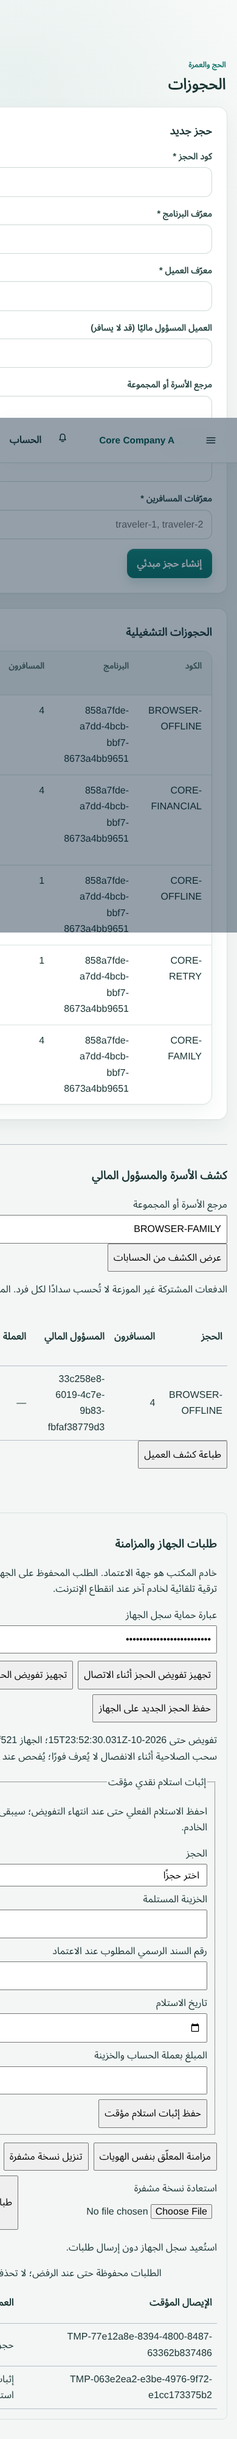
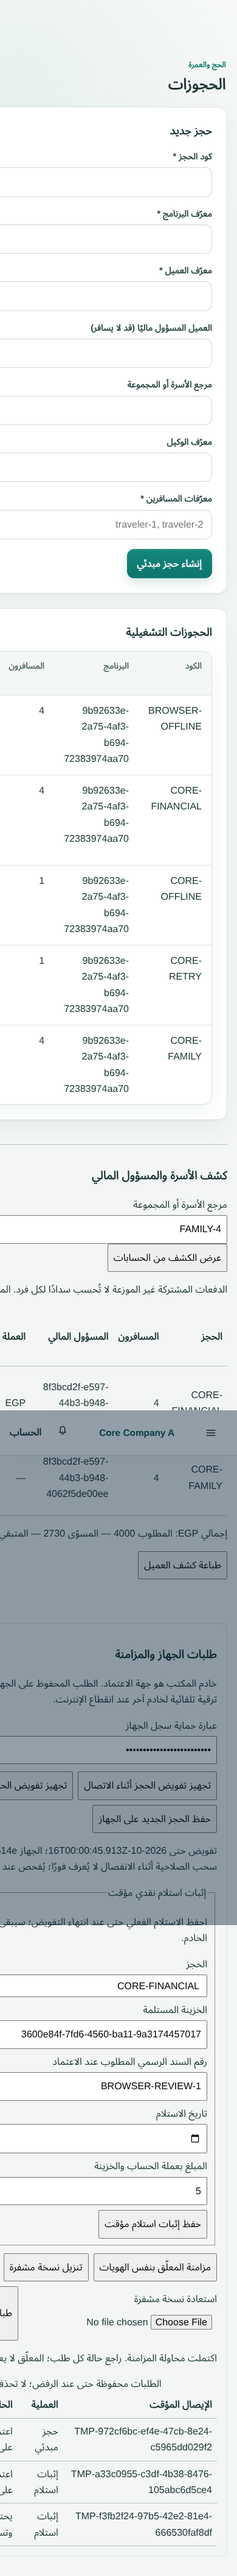
fix: preserve concurrent booking receipt references with row locking

diff --git a/modules/tourism-finance-orchestration/src/infrastructure/prisma-tourism-finance.repository.ts b/modules/tourism-finance-orchestration/src/infrastructure/prisma-tourism-finance.repository.ts
@@ -1,5 +1,5 @@
 import { Prisma, type PrismaClient } from '@prisma/client';
-import { companyId, decimalAmount, sourceReference, type CompanyId, type SourceReference } from '@elhafez/contracts';
+import { companyId, decimalAmount, sourceReference, ContractValidationError, type CompanyId, type SourceReference } from '@elhafez/contracts';
 import type { TourismFinanceRepository } from '../application/orchestration.repository.js';
 import type { BookingReference, FinancialSetup, ProgramHistory, ServiceFinancialSnapshot, StandaloneFinancialReference, Workflow, WorkflowStep } from '../domain/orchestration.js';
 const json = (value: unknown) => value as Prisma.InputJsonValue; const out = <T>(value: Prisma.JsonValue) => value as unknown as T;
@@ -56,7 +56,16 @@ export class PrismaTourismFinanceRepository implements TourismFinanceRepository 
   async saveSetup(value: FinancialSetup) { await this.db.tfoFinancialSetup.upsert({ where: { companyId_category: { companyId: value.companyId, category: value.category } }, create: value, update: { receivableAccountId: value.receivableAccountId, customerAdvanceAccountId: value.customerAdvanceAccountId, revenueAccountId: value.revenueAccountId, costAccountId: value.costAccountId, commissionExpenseAccountId: value.commissionExpenseAccountId, commissionLiabilityAccountId: value.commissionLiabilityAccountId, active: value.active } }); }
   async setup(company: CompanyId, category: string) { const row = await this.db.tfoFinancialSetup.findUnique({ where: { companyId_category: { companyId: company, category } } }); return row ? { id: row.id, companyId: companyId(row.companyId), category: row.category as FinancialSetup['category'], receivableAccountId: row.receivableAccountId, customerAdvanceAccountId: row.customerAdvanceAccountId, revenueAccountId: row.revenueAccountId, costAccountId: row.costAccountId, ...(row.commissionExpenseAccountId ? { commissionExpenseAccountId: row.commissionExpenseAccountId } : {}), ...(row.commissionLiabilityAccountId ? { commissionLiabilityAccountId: row.commissionLiabilityAccountId } : {}), active: row.active } : undefined; }
   async reserveBooking(value: BookingReference) { try { await this.db.tfoBookingReference.create({ data: this.bookingData(value) }); return value; } catch (error) { const old = await this.booking(value.companyId, value.booking); if (old) return old; throw error; } }
-  async saveBooking(value: BookingReference) { await this.db.tfoBookingReference.update({ where: { companyId_bookingType_bookingId: { companyId: value.companyId, bookingType: value.booking.sourceType, bookingId: value.booking.sourceId } }, data: { status: value.status, invoiceId: value.invoiceId, allocations: json(value.allocations), approvalRequestId: value.approvalRequestId, procurementReference: procurementJson(value), commissionClaimId: value.commissionClaimId, commissionClaimIds:json(value.commissionClaimIds??(value.commissionClaimId?[value.commissionClaimId]:[])), depositVoucherIds: json(value.depositVoucherIds) } }); }
+  async saveBooking(value: BookingReference) {
+    const where={companyId_bookingType_bookingId:{companyId:value.companyId,bookingType:value.booking.sourceType,bookingId:value.booking.sourceId}};
+    await this.db.$transaction(async tx=>{
+      await tx.$queryRaw(Prisma.sql`SELECT id FROM tfo_booking_references WHERE company_id=${value.companyId} AND booking_type=${value.booking.sourceType} AND booking_id=${value.booking.sourceId} FOR UPDATE`);
+      const current=await tx.tfoBookingReference.findUniqueOrThrow({where});
+      if(current.status==='CANCELLED'&&value.status!=='CANCELLED')throw new ContractValidationError('booking','cancelled financial identity cannot reopen');
+      const deposits=[...new Set([...out<string[]>(current.depositVoucherIds),...value.depositVoucherIds])];
+      await tx.tfoBookingReference.update({where,data:{status:value.status,invoiceId:value.invoiceId,allocations:json(value.allocations),approvalRequestId:value.approvalRequestId,procurementReference:procurementJson(value),commissionClaimId:value.commissionClaimId,commissionClaimIds:json(value.commissionClaimIds??(value.commissionClaimId?[value.commissionClaimId]:[])),depositVoucherIds:json(deposits)}});
+    });
+  }
   private bookingData(value: BookingReference) { return { id: value.id, companyId: value.companyId, branchId: value.branchId, bookingType: value.booking.sourceType, bookingId: value.booking.sourceId, programType: value.program.sourceType, programId: value.program.sourceId, customerPartyId: value.customerPartyId, confirmationPayloadHash: value.confirmationPayloadHash, status: value.status, invoiceId: value.invoiceId, allocations: json(value.allocations), approvalRequestId: value.approvalRequestId, procurementReference: procurementJson(value), commissionClaimId: value.commissionClaimId, commissionClaimIds:json(value.commissionClaimIds??(value.commissionClaimId?[value.commissionClaimId]:[])), depositVoucherIds: json(value.depositVoucherIds), workflowId: value.workflowId, financialSetup: json(value.financialSetup) }; }
   private mapBooking(row: { id: string; companyId: string; branchId: string | null; bookingType: string; bookingId: string; programType: string; programId: string; customerPartyId: string; confirmationPayloadHash: string; status: string; invoiceId: string | null; allocations: Prisma.JsonValue; approvalRequestId: string | null; procurementReference: Prisma.JsonValue | null; commissionClaimId: string | null; commissionClaimIds?: Prisma.JsonValue | null; depositVoucherIds: Prisma.JsonValue; workflowId: string; financialSetup: Prisma.JsonValue | null }): BookingReference { if (row.financialSetup === null) throw new Error('booking financial setup snapshot is missing'); return { id: row.id, companyId: companyId(row.companyId), ...(row.branchId ? { branchId: row.branchId } : {}), booking: sourceReference(row.bookingType, row.bookingId), program: sourceReference(row.programType, row.programId), customerPartyId: row.customerPartyId, confirmationPayloadHash: row.confirmationPayloadHash, status: row.status as BookingReference['status'], ...(row.invoiceId ? { invoiceId: row.invoiceId } : {}), allocations: out(row.allocations), ...(row.approvalRequestId ? { approvalRequestId: row.approvalRequestId } : {}), ...mappedProcurement(row.procurementReference), ...(row.commissionClaimId ? { commissionClaimId: row.commissionClaimId } : {}), commissionClaimIds:row.commissionClaimIds?out(row.commissionClaimIds):(row.commissionClaimId?[row.commissionClaimId]:[]), depositVoucherIds: out(row.depositVoucherIds), workflowId: row.workflowId, financialSetup: out(row.financialSetup) }; }
   async booking(company: CompanyId, source: SourceReference) { const row = await this.db.tfoBookingReference.findUnique({ where: { companyId_bookingType_bookingId: { companyId: company, bookingType: source.sourceType, bookingId: source.sourceId } } }); return row ? this.mapBooking(row) : undefined; }

diff --git a/apps/api/src/core-workflow-http.integration.ts b/apps/api/src/core-workflow-http.integration.ts
@@ -81,6 +81,13 @@ await test('core workflow actual AppModule and PostgreSQL',async t=>{
    const ecr=app.get(ExpenseCommissionRecognitionApplicationService);for(const claim of claims)await ecr.approveCommission(cid,claim.id,'2026-10-15','CORE-COMMISSION-'+claim.id);
    const deposit={companyId:cid,branchId:tenant.defaultBranchId,commandKey:'core-deposit',booking:sourceReference('HAJJ_UMRAH_BOOKING',financialBooking.id),treasuryId:cash.id,number:'CORE-RECEIPT',postingDate:'2026-10-15',amount:decimalAmount('2500')};await finance.recordBookingDeposit(deposit);await finance.recordBookingDeposit(deposit);
    const statement=await request<{rows:Array<{allocationBasis:string}>;totals:Array<{currency:string;charged:string;paid:string;outstanding:string}>}>('/hajj-umrah/family-statement?reference=FAMILY-4',undefined,headers(tenant),200);assert.deepEqual(statement.totals,[{currency:'EGP',charged:'4000',paid:'2500',outstanding:'1500'}]);assert.ok(statement.rows.every(x=>x.allocationBasis==='SHARED_NOT_DISTRIBUTED'));assert.ok(!JSON.stringify(statement).includes('commission'));
+   const concurrent=[{...deposit,commandKey:'concurrent-cash-a',number:'CONCURRENT-A',amount:decimalAmount('10')},{...deposit,commandKey:'concurrent-cash-b',number:'CONCURRENT-B',amount:decimalAmount('20')}];
+   const outcomes=await Promise.allSettled(concurrent.map(input=>finance.recordBookingDeposit(input)));
+   for(const [index,outcome] of outcomes.entries())if(outcome.status==='rejected')await finance.recordBookingDeposit(concurrent[index]!);
+   const reference=await db.tfoBookingReference.findFirstOrThrow({where:{companyId:cid,bookingId:financialBooking.id}});
+   assert.equal((reference.depositVoucherIds as string[]).length,3,'distinct concurrent receipts must all remain available for cancellation/recovery');
+   const updated=await request<{totals:Array<{outstanding:string}>}>('/hajj-umrah/family-statement?reference=FAMILY-4',undefined,headers(tenant),200);assert.equal(updated.totals[0]?.outstanding,'1470');
+
   });
   if(process.env.CORE_BROWSER_PACKAGE){await t.test('production browser saves encrypted offline request and synchronizes through actual AppModule',async()=>{
    await new Promise<void>((resolve,reject)=>{const child=spawn(process.execPath,['tools/experiments/core-workflow/browser.mjs'],{env:{...process.env,CORE_API_ORIGIN:origin},stdio:['pipe','pipe','pipe']});let output='';child.stdout.on('data',chunk=>output+=String(chunk));child.stderr.on('data',chunk=>output+=String(chunk));child.on('error',reject);child.on('exit',code=>code===0?resolve():reject(Error('browser acceptance failed: '+output.slice(-2000))));child.stdin.end(JSON.stringify({tenant:{...tenant,mustChangePassword:false},programId,customerId,responsibleId,travelerIds,financialTreasuryId}));});

diff --git a/docs/planning/CORE_WORKFLOW_ACCEPTANCE_AR.md b/docs/planning/CORE_WORKFLOW_ACCEPTANCE_AR.md
@@ -6,7 +6,7 @@
 
 - الحجز يفصل العميل المتعاقد عن العميل المسؤول ماليًا، الذي لا يدخل ضمن عدد المسافرين. يمكن ربط مسافرين ذوي ملفات مستقلة دون فرض أن الجميع ملف عميل واحد. `familyReference` يجمع الحجوزات للعرض، ولا ينشئ دفتر ذمم. حقول قديمة بلا مسؤول مستقل تستخدم المتعاقد كما كانت.
 - يمر المسؤول المالي وحده إلى فاتورة TFO/Billing. كشف الأسرة يجمع الفاتورة مرة واحدة وبعملة مستقلة. الحجز متعدد المسافرين يبقى SHARED_NOT_DISTRIBUTED؛ لا يُختلق سداد لكل فرد. رقم «المسوّى» هو الإجمالي ناقص المتبقي ويشمل التسويات، وليس مجموع النقد وحده. مطبوعة العميل إسقاط مستقل يهرب النصوص ولا ينسخ شاشة الإدارة أو العمولة/التكلفة.
-- إنشاء الحجز ذو requestId ثابت يتحمل ضياع الرد وإعادة الإنشاء. المرجع مشتق إلى هوية تقبلها طبقة التدقيق UUID. تسجيل مراجع العميل والمندوب يستعمل إدخالًا ذريًا متجاهلًا للتكرار نفسه، دون إعادة إنشاء العلاقات في سباق upsert. حفظ انتقالات الحجز يستخدم revision ويحتفظ بالتاريخ داخل المعاملة.
+- إنشاء الحجز ذو requestId ثابت يتحمل ضياع الرد وإعادة الإنشاء. المرجع مشتق إلى هوية تقبلها طبقة التدقيق UUID. تسجيل مراجع العميل والمندوب يستعمل إدخالًا ذريًا متجاهلًا للتكرار نفسه، دون إعادة إنشاء العلاقات في سباق upsert. حفظ انتقالات الحجز يستخدم revision ويحتفظ بالتاريخ داخل المعاملة. حفظ مراجع قبض TFO يدمج الهويات تحت قفل الصف بدل فقد إيصال عند تزامن قبضين، ولا يعيد فتح مرجع ملغى.
 - اتفاق الرئيسي/التابع يثبت على الحجز قبل التأكيد. ECR يملك سياسة التوزيع الدقيقة: الرئيسي إلى الأسفل على أصغر وحدة للعملة، والتابع يأخذ الباقي؛ دقة العملة تُقرأ من currency-fx. مثال مستقل: 100.01 × 33.333333% ينتج 33.33 و66.68. يثبت TFO خطة التوزيع ويستأنف المطالبات بهويات ومصادر مستقلة لكل نصيب. فحوص الإلغاء/العكس تشمل جميع المطالبات. الاستحقاق المحاسبي لا يُنشأ داخل agent-management؛ اعتماد ECR الحالي يرحّل القيود، مع حفظ نطاق الفرع.
 - مالك `offline-coordination` منشأ من القالب، ومسجل في AppModule، ويملك بيانات التنسيق فقط. يدعم BOOKING_CREATE وBOOKING_CONFIRM وBOOKING_DEPOSIT. الطلب ثابت الهوية والبيانات، مع اعتماديات وإيصال وحالة ومعالجة ذات lease؛ إعادة المحاولة تستخدم مفتاح المالك نفسه. لا تتحول نتيجة غير مؤكدة إلى نجاح.
 - التفويض مسجل للخادم بنطاق الشركة/الفرع/المستخدم/الجهاز والعمليات، بحد أقصى ثماني ساعات. واجهة الحجز تستخدم أربع ساعات. يتحقق الخادم من النسخة المخزنة، لا من نسخة الجهاز، ومن الصلاحيات الحالية عند المزامنة. التفويض المنتهي/الملغى يحول الطلب الوارد إلى REVIEW؛ إثبات النقد لا يضيع ولا يعد قبضًا معتمدًا. إذا تعطلت هوية المستخدم قبل الإرسال يبقى الطلب المشفر على الجهاز ولا يتجاوز المصادقة.
@@ -32,6 +32,8 @@
 | قبول AppModule/PostgreSQL/Chromium/LAN | `apps/api/src/core-workflow-http.integration.ts`، وفق README التجربة | PASS: 12 حالة + الاختبار الجامع = 13 PASS / 0 FAIL، منها browser حجز وقبض وتخزين واستعادة طابور وLAN معزولة |
 | استعادة منفصلة | `bash tools/experiments/core-workflow/recovery.sh` | PASS؛ استعادة منفصلة ومقارنة إجماليات وطلبات وسلطة وروابط ومرفق SHA-256؛ لا إعادة تنفيذ عملية مالك |
 | ترقية قاعدة بها بيانات | `bash tools/experiments/core-workflow/upgrade.sh` | PASS؛ حجز قديم محفوظ، والمسؤول القديم يرجع للمتعاقد، وrevision=0؛ لا ادعاء تجربة كل أرشيفات مالية العملاء |
+| بناء API والويب | `pnpm --filter @elhafez/api build`؛ `pnpm --filter @elhafez/web build` | PASS؛ تشغيل API البارد وartifact الويب مثبتان في القبول |
+| اختبارات الويب الأحدث | `pnpm --filter @elhafez/web test` | 100 PASS + 2 proxy PASS؛ النوع وlint والمعمارية PASS |
 | مطبوعة العميل | `apps/web/src/family-statement-print.spec.ts` | PASS؛ RTL وهروب النصوص وإسقاط العمولة/التكلفة دون طباعة شاشة الإدارة؛ A4 والتنسيق النهائي يحتاجان مراجعة أجهزة |
 | نظافة diff | `git diff --check` | PASS عند الفحص؛ يعاد على الالتزام النهائي |
 
@@ -64,8 +66,15 @@
 
 - [حجز مؤقت أثناء الانقطاع](evidence/core-workflow/booking-pending-rtl.png).
 - [كشف الأسرة وحالتا اعتماد الحجز والقبض](evidence/core-workflow/family-and-sync-rtl.png).
+- [قبض محفوظ للمراجعة بعد سحب التفويض](evidence/core-workflow/cash-review-rtl.png).
 - [عرض موبايل RTL](evidence/core-workflow/booking-mobile-rtl.png).
 
-هذه صور من artifact الإنتاج وAPI/قاعدة فعليين ببيانات الاختبار. ليست mock ولا شهادة اكتمال تصميم القسم؛ حقول المعرفات الحالية تحتاج استكمال اختيارات المستخدم ومراجعة الشكل النهائي. الاختبار المالي قبل browser يثبت 4000/2500/1500؛ سيناريو browser أضاف قبضًا آخر 200 للحجز المالي بنفس مالكيه، فبقي 1300. إجمالي المطالبات المعتمدة 100.01. استعادة ما بعد ذلك تقارن القيم الفعلية الجديدة، لا الأرقام القديمة.
+هذه صور من artifact الإنتاج وAPI/قاعدة فعليين ببيانات الاختبار. ليست mock ولا شهادة اكتمال تصميم القسم؛ حقول المعرفات الحالية تحتاج استكمال اختيارات المستخدم ومراجعة الشكل النهائي. الاختبار المالي قبل browser يثبت 4000/2500/1500؛ سيناريو browser أضاف قبضًا آخر 200 للحجز المالي بنفس مالكيه، وبالإضافة إلى قبضين متزامنين 10 و20 بقي 1270. إجمالي المطالبات المعتمدة 100.01. استعادة ما بعد ذلك تقارن القيم الفعلية الجديدة، لا الأرقام القديمة.
 
 تجربة LAN تبدأ صورة مجهزة بـOpenSSL 3 على شبكة Docker internal، ثم عميلًا منفصلًا عليها؛ ينجح تسجيل الدخول وقراءة الحجز والمرفق وملفات الواجهة، ويفشل الوصول الخارجي. الصورة الداخلية Node 24.22.0. لا تفترض الصورة أن الملفات الحية أو عمليات الشبكة انتقلت إلى مهمة مستقبلية.
+
+## حالة المراجعة
+
+PR مسودة واحد: https://github.com/hendhafez5566-arch/Elhafez-Business-Accounting/pull/147 إلى development/flexible-section-ui. فحص GitHub quality نجح على d8ff431؛ تُراجع حالة آخر التزام من PR نفسه، ولا تُنسب نتيجة التزام أقدم إلى أحدث تعديل. نجح pnpm verify مرتين محليًا؛ إصلاح جمع مراجع القبض المتزامن اللاحق تحقق بفحص أنواع واختبارات TFO 46 وبقبول PostgreSQL/Chromium/LAN 13 ثم استعادة منفصلة، مع إعادة lint والمعمارية وفحوص الحوكمة على diff النهائي.
+
+إعدادات install_script وstart_skill ومرجع المستودع محفوظة في مسودة البيئة فقط، لا نشر للبيئة أو التطبيق. لا يلزم إدخال مفاتيح حقيقية لتشغيل fixture الاختبار.
